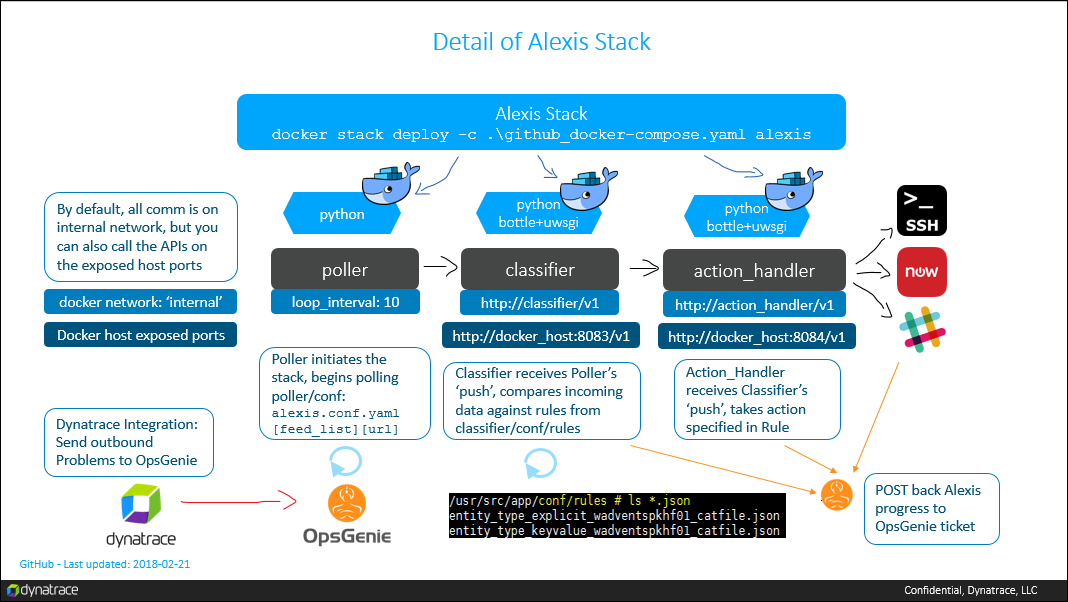
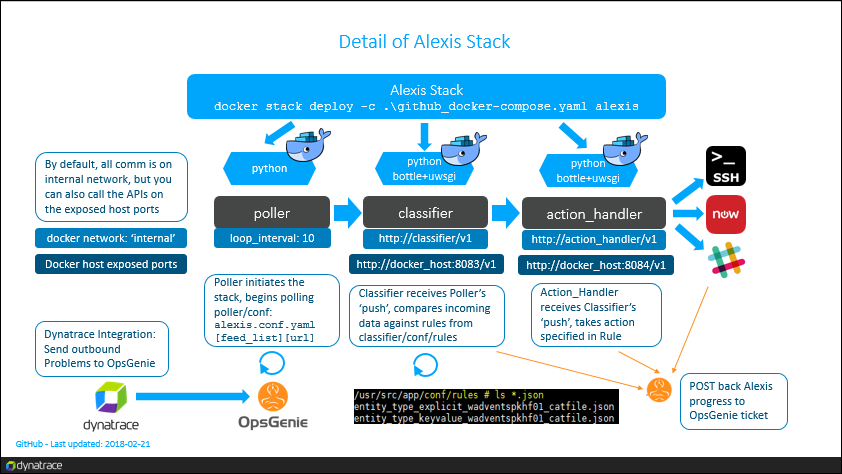
Updated README.md and images

diff --git a/README.md b/README.md
@@ -123,6 +123,45 @@ This section describes the Alexis stack in greater detail, includes diagrams, an
 
 ## Detail of Alexis Stack
 
+### Guiding Principles
+
+The team which designed the initial blueprint for this Alexis project had worked on various automation, monitoring, and alerting projects in the past.
+
+The most important principle was to do the following:
+
+- _*Design with declarative configuration-as-code which can be re-used for infinite possibilities*_
+
+In Site Reliability Engineering and automation efforts, it is a common pitfall to code in "single-use" programs.  Similar problems might be solved a dozen times before the team starts considering that it could be have been designed comprehensively *one time as an engine*, with *dozens of configurations* to drive it.
+
+As an example of how this plays out in coding, the Classifer Rule could have simply allowed `description` or `message` or `entity` as the keys which can be searched.
+Most of the time, this would probably be sufficient for OpsGenie.
+
+But, hard-coding "description|message|entity" into our applications would have limited the potential to only those 3 keys.
+
+So, instead, the Classifier's Rules specify `search_key` and `search_text`.
+
+As long as the `search_key` exists in the incoming alert, we can search for any text within that key's value.
+
+This is a significant departure from only thinking of 1-3 possible use cases and limiting the code to only those _currently-imaginable keys_.
+
+---------------------------------------------------------
+
+Here are some of other ideas and principles:
+
+- Separate configuration from code
+- Share only the bare minimum code between Alexis components
+- Design with portability in mind
+- Include CI/CD concepts in the dev/build/deploy/test pipeline
+  - See [Alexis Deploy and Automation Testing](#alexis-deploy-and-automation-testing))
+- Consolidate to a few technologies and languages
+  - e.g. do not over-complicate with extra technologies (Nginx, message queue, MongoDB) which add little overall value to the project and increase complexity
+- Log all activity with reporting in mind, especially remember to log the unique id of the incoming data
+  - e.g. OpsGenie has a 'tinyId' which is unique to each alert and this tinyId value is logged on the majority of log statements during autoremediation
+
+That last principle is often deprioritized in Operations automation projects.  There are many autoremediation products which perform tasks but never allow easy reporting on what was performed, how often, and when.
+
+From the point of view of this Alexis project, reporting about automation tasks should always be easy to locate and included from the foundation of the code.
+
 ![Diagram: Detail of Alexis Stack](/images/diagram-detail-of-alexis-stack.png)
 
 ### Dynatrace Integration with OpsGenie
@@ -197,7 +236,7 @@ https://docs.docker.com/engine/swarm/secrets
 
 ### Rule Storage
 
-In alignment with our decision to not implement a message queue ([see API Access](#api-access)), we wanted to avoid using a database unless it was technically mandatory.
+In alignment with our decision to not implement a message queue (see [API Access](#api-access)), we wanted to avoid using a database unless it was technically mandatory.
 Therefore, currently the Classifier rules are stored on disk, which admittedly is not robust, but it accomplishes the goal of simple rule storage.
 
 Also, as a guiding directive we wanted to focus on making rules powerful and flexible so that it keeps rule storage to a minimum.
@@ -226,12 +265,14 @@ Currently, we post back to the OpsGenie ticket, but we will soon work on posting
 _This will be implemented by March 2018_
 
 
-## Diagram: Detail of Poller
+## Detail of Poller
 
 **Purpose**
+
 The purpose of the Poller is to process one or more feeds and push those feeds in JSON format to another endpoint.
 
 **Lean and Performant**
+
 We wanted to keep the Poller small and efficient, so there is no logic to parse or understand the incoming data.
 
 Theoretically, the Poller can poll multiple feeds and deliver the content of those feeds to identical or distinct Classifiers.
@@ -243,35 +284,67 @@ Theoretically, the Poller can poll multiple feeds and deliver the content of tho
 _Section not completed yet._
 
 
-## Diagram: Detail of Classifier
+## Detail of Classifier
 
 **Purpose**
+
 The purpose of the Classifier is to receive incoming data in JSON and compare that properties of that data against a rule set which is also in JSON.  If there is a rule match, the Classifier combines the incoming JSON and rule JSON and pushes the merged JSON to an Action_Handler endpoint.
 
 **Declarative**
+
 The Classifier is designed with declarative programming concepts so that a simple rule file can "tell" the Classifier how to classify and route incoming data.
 
 **Classify and Route**
+
 The Classifier serves both the purpose of being a Classifier and a Router.
 
 We wanted to allow engineers to program their own Classifier functions which could route to their own Action_Handlers.
 
 For instance, if someone wants to design a Classifier schema for ServiceNow, they can also design an Action_Handler which could receive the routed alert and call the ServiceNow APIs.
 
+![Diagram: Detail of Classifier](/images/diagram-detail-of-classifier.png)
+
 _Section not completed yet._
 
 
-## Diagram: Detail of Action_Handler
+## Detail of Action_Handler
 
 **Purpose**
+
 The purpose of the Action_Handler is to receive incoming, merged Alert+Rule JSON and to take actions based upon the declarative logic in the Rule portion of the incoming JSON.
 
 **Extensible**
+
 Currently, the Action_Handler's primary **"action"** is performing an SSH connection and running a one-liner on a remote host.  
 
 However, the code is structured to allow extension with new functions to handle new Actions.
 
 In future releases, we aim to make these extensibility similar to the "plugin" concept.
 
+![Diagram: Detail of Action_Handler](/images/diagram-detail-of-action-handler.png)
+
+_Section not completed yet._
+
+
+## Alexis Deploy and Automation Testing
+
+With this project, coding new features needed to be quick and deployment/testing needed to be near-effortless.
+
+We were overhauling a bunch of old code and bringing in new ideas, so we knew there were going to be mistakes and gaps in our coding.
+
+From our [Guiding Principles](#guiding-principles)), early in the development process, we were separating configuration from code.
+
+- Code in Python, build with Dockerfile into a Docker image (code)
+- Store in Git, push/pull (configuration)
+
+Since this is a modular (and still small) project, we also wanted to reduce the emphasis on extensive unit testing, relying instead on integration and functional testing.
+
+This is how we are accomplishing efficient integration and functional testing today.
+
+### Code Integration Tests into the Foundation
+
+_Section not completed yet._
+
+### Develop Automated Functional Testing
 
 _Section not completed yet._
